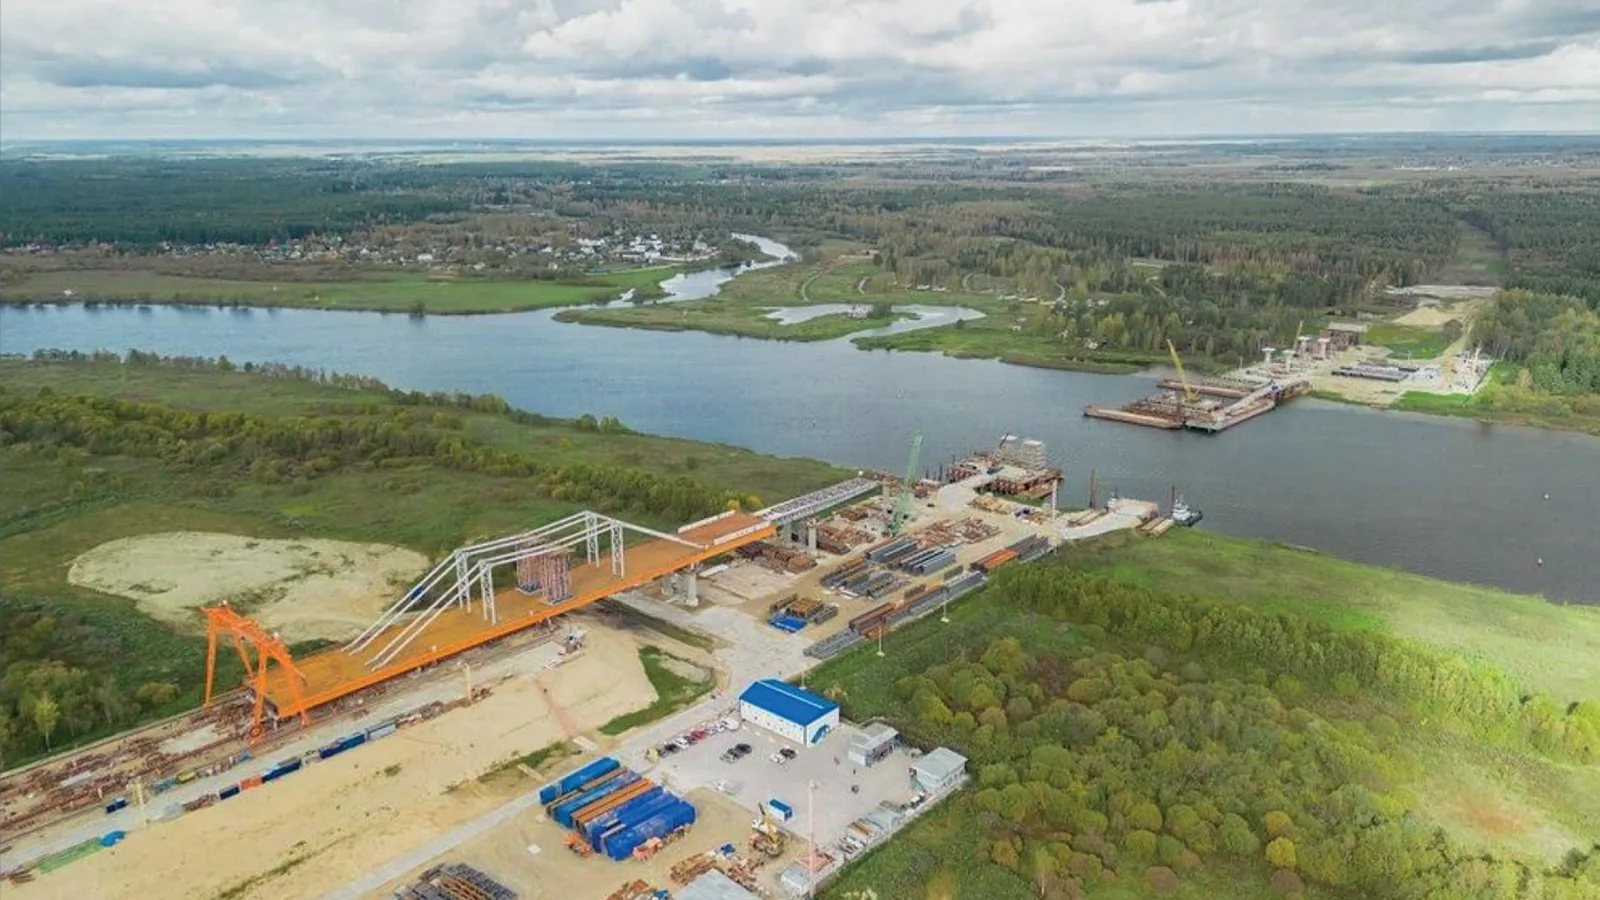
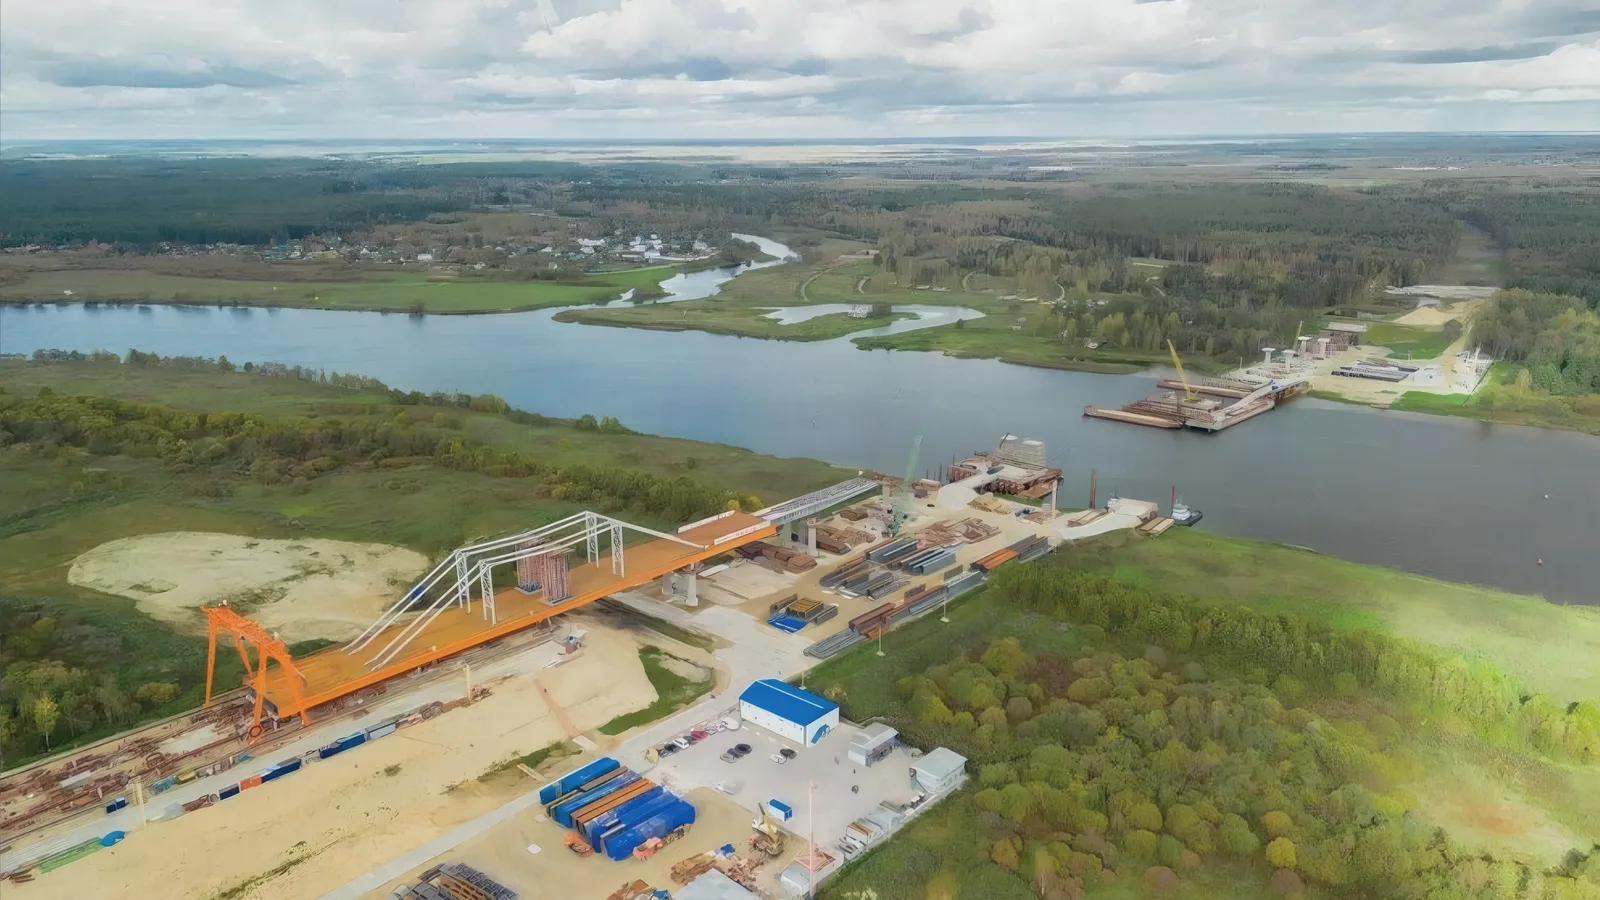
Expanding photo: sharper M-11 shot (4x upscale), 2400 px variant added

diff --git a/index.html b/index.html
@@ -633,7 +633,7 @@ fieldset.fld{border:0}
 <section id="objects" aria-labelledby="objH">
   <div class="xp" id="xp">
     <h2 class="xp-h" id="objH"><span class="l1">Объекты</span><span class="l2">с нашим участием <i class="xp-slot" id="xpSlot"></i></span><span class="l3">по всей стране</span></h2>
-    <div class="xp-media" id="xpMedia"><img src="img/m11-wide-1600.webp" srcset="img/m11-wide-800.webp 800w, img/m11-wide-1600.webp 1600w" sizes="100vw" alt="Строительство моста через Волгу на трассе М-11: пролётное строение перед продольной надвижкой, вид с воздуха" loading="lazy"></div>
+    <div class="xp-media" id="xpMedia"><img src="img/m11-wide-1600.webp" srcset="img/m11-wide-800.webp 800w, img/m11-wide-1600.webp 1600w, img/m11-wide-2400.webp 2400w" sizes="100vw" alt="Строительство моста через Волгу на трассе М-11: пролётное строение перед продольной надвижкой, вид с воздуха" loading="lazy"></div>
     <div class="xp-cap" id="xpCap"><b>М-11 «Нева», мост через Волгу</b><p>Комплексный ППР на строительство моста, включая продольную надвижку пролётного строения.</p></div>
   </div>
   <div class="wrap">
